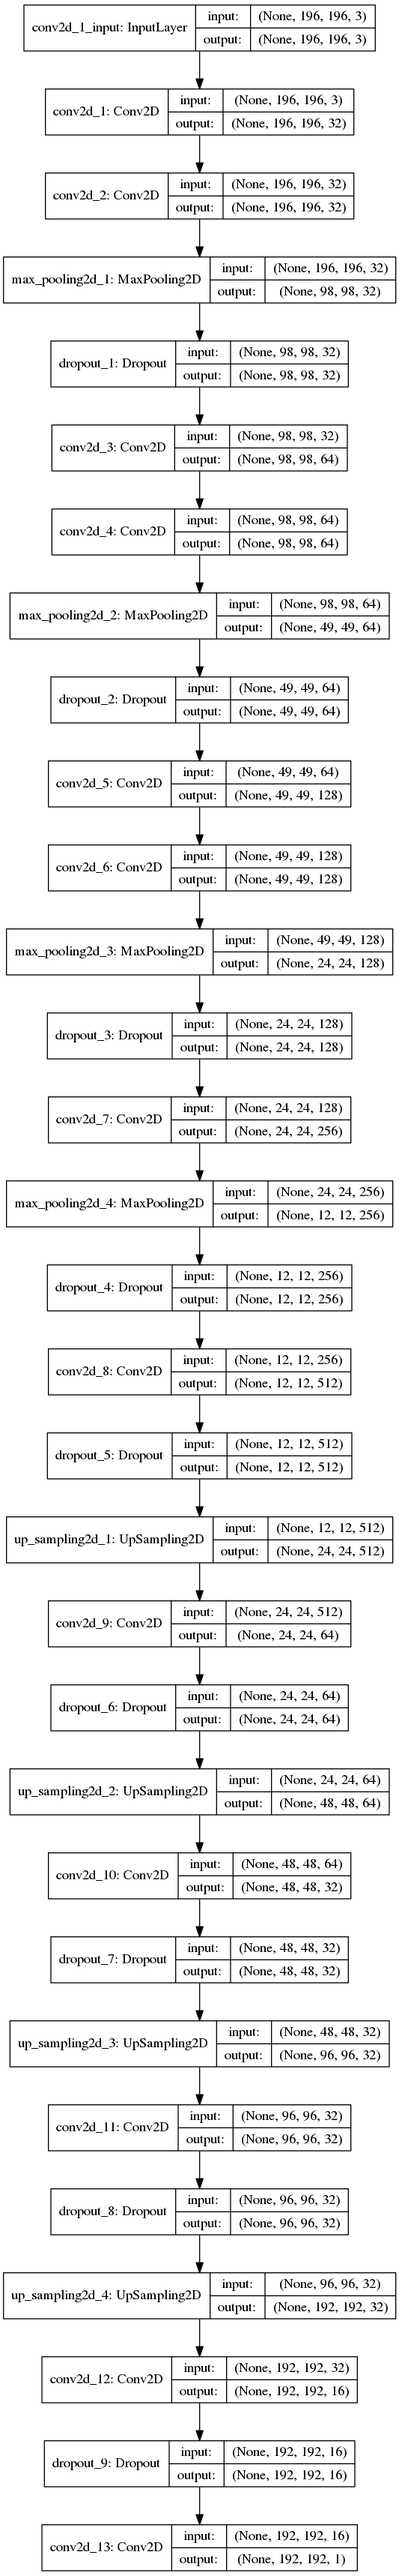
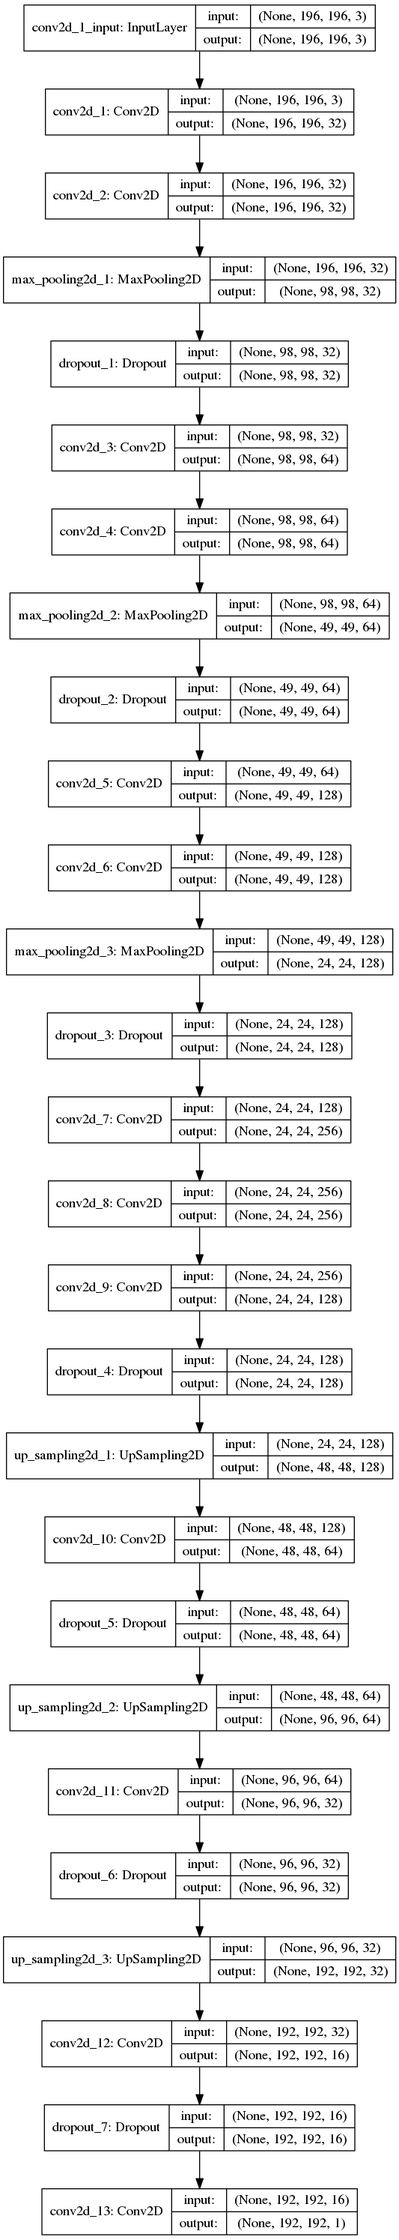
New structure, removed equalization
Former-commit-id: b64da90f9e3b2d5f080ede4327fc7991b67993d5
Former-commit-id: 20d483ef94dbd1458636e8f5fc826b67cb2e3167
Former-commit-id: e0229ed1caf9e3f1e756c631dfc4d23bde4109f7
Former-commit-id: 9bd9e13ae2720ff0571e7b35f587ee01f6419c65

Changed region(s): [[0.0, 0.0, 1.0, 1.0], [0.0, 0.4048, 0.03, 0.4359]]

diff --git a/deconv_line/net.py b/deconv_line/net.py
@@ -36,9 +36,9 @@ def iou_loss(y_true, y_pred):
 def preprocess_img(img):
 	img = cv2.resize(img, (nn_img_side, nn_img_side), interpolation = cv2.INTER_CUBIC)
 
-	img_yuv = cv2.cvtColor(img, cv2.COLOR_BGR2YUV)
-	img_yuv[:,:,0] = cv2.equalizeHist(img_yuv[:,:,0])
-	img = cv2.cvtColor(img_yuv, cv2.COLOR_YUV2BGR)
+	# img_yuv = cv2.cvtColor(img, cv2.COLOR_BGR2YUV)
+	# img_yuv[:,:,0] = cv2.equalizeHist(img_yuv[:,:,0])
+	# img = cv2.cvtColor(img_yuv, cv2.COLOR_YUV2BGR)
 
 	img = img.astype('float32', copy=False)
 	# img[:,:,0] -= 103.939
@@ -76,13 +76,13 @@ def get_unet():
 	model.add(Dropout(0.25))
 
 	model.add(Conv2D(256, (3, 3), activation='relu', padding='same'))
-	model.add(MaxPooling2D(pool_size=(2, 2)))
-	model.add(Dropout(0.25))
+	model.add(Conv2D(256, (3, 3), activation='relu', padding='same'))
+	# model.add(MaxPooling2D(pool_size=(2, 2)))
+	# model.add(Dropout(0.25))
 
-	model.add(Conv2D(512, (3, 3), activation='relu', padding='same'))
-	model.add(Dropout(0.25))
+	# model.add(Conv2D(512, (3, 3), activation='relu', padding='same'))
 
-	model.add(UpSampling2D(size=(2, 2)))
+	# model.add(UpSampling2D(size=(2, 2)))
 	model.add(Conv2D(128, (3, 3), activation='relu', padding='same'))
 	model.add(Dropout(0.25))
 
@@ -95,7 +95,7 @@ def get_unet():
 	model.add(Dropout(0.25))
 
 	model.add(UpSampling2D(size=(2, 2)))
-	model.add(Conv2D(32, (3, 3), activation='relu', padding='same'))
+	model.add(Conv2D(16, (3, 3), activation='relu', padding='same'))
 	model.add(Dropout(0.25))
 
 	model.add(Conv2D(1, (1, 1), activation='hard_sigmoid'))

diff --git a/deconv_line/train.py b/deconv_line/train.py
@@ -55,7 +55,7 @@ def train_and_predict():
 	print('Fitting model...')
 	print('-'*30)
 
-	model.fit(imgs_train, imgs_mask_train, batch_size=8, epochs=7000, verbose=1, shuffle=True, validation_split=0, 
+	model.fit(imgs_train, imgs_mask_train, batch_size=25, epochs=7000, verbose=1, shuffle=True, validation_split=0, 
 				callbacks=[ModelCheckpoint('weights_best.h5', monitor='loss', save_best_only=True, save_weights_only=True, verbose=1)])
 
 if __name__ == '__main__':

diff --git a/deconv_line/data.py b/deconv_line/data.py
@@ -9,7 +9,7 @@ data_path = '.'
 raw_path  = ['../raw_data/line_imgs_masks' ]
 negative_path = [ '../raw_data/negative' ]
 
-negatives_append = False
+negatives_append = True
 
 npy_img_height = 240
 npy_img_width = 320
